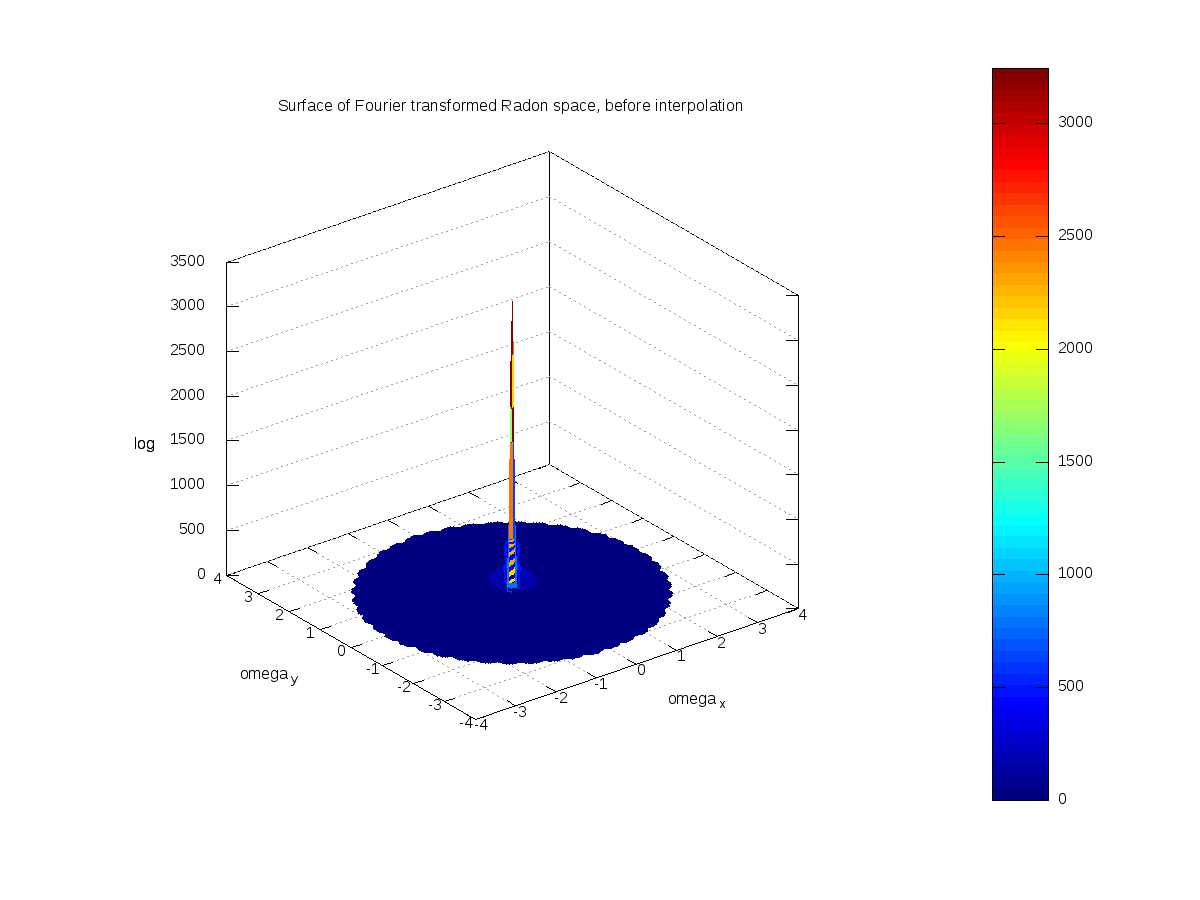
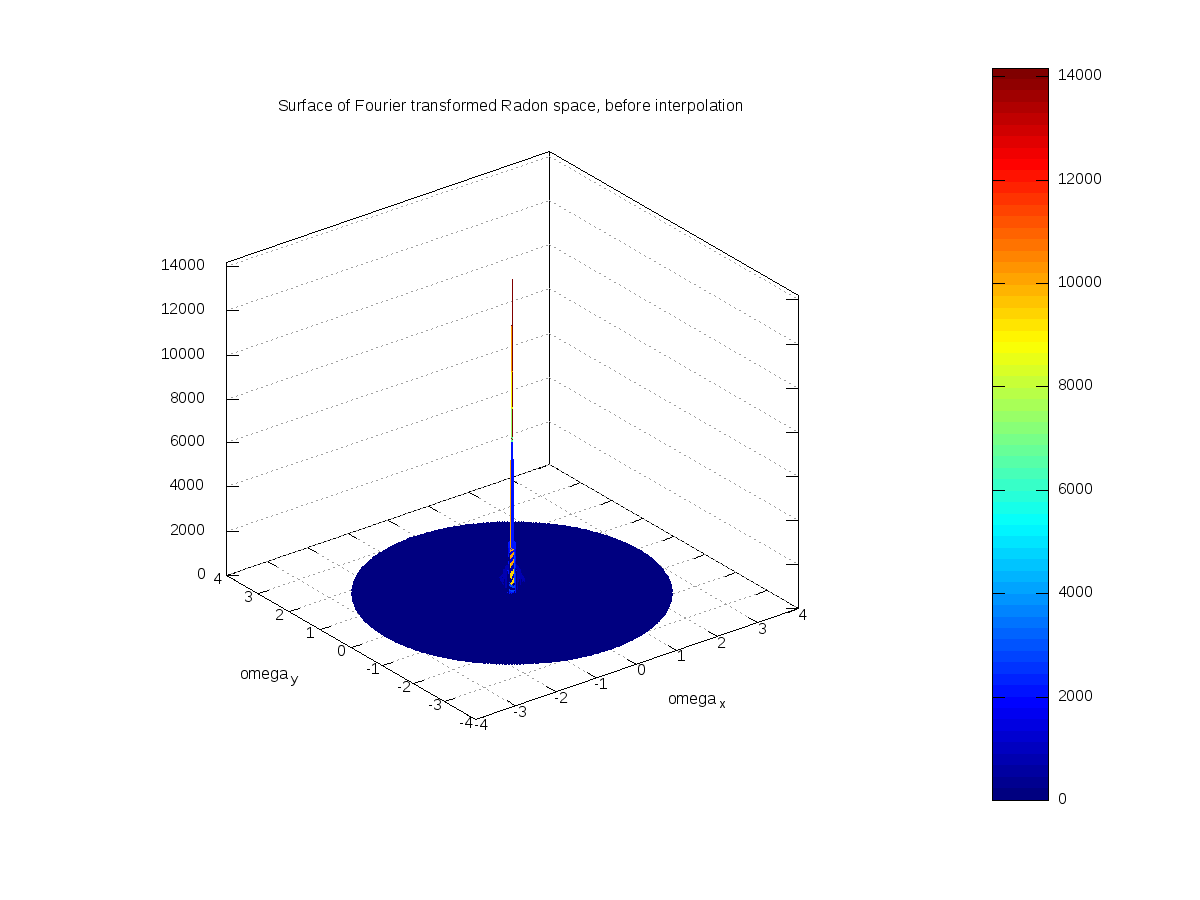
Add oversampling feature to reduce artefacts due to oversampling

diff --git a/main.m b/main.m
@@ -16,8 +16,9 @@
 % @param N_theta Number of slices in Radon scan from 0deg to 180deg (excluding 180deg)
 % @param SNR Signal to Noise Ratio
 % @param interp_m method of interpolation. Can be 'nearest','linear' or 'cubic'
+% @param oversampling_ratio oversampling ratio. Increase the Nyquist frequency to reduce aliasing. =1, none; >1 oversampling.
 % @param DEBUG mode. If set to 1, many more figures are printed out for debugging process.
-function main(shape,N_image,N_theta,SNR,interp_m,DEBUG)
+function main(shape,N_image,N_theta,SNR,interp_m,oversampling_ratio,DEBUG)
 %%%%%%%%%%%%%%%%%%%%%%%%%%%%%%%%%%%%%%%%%%%%%%%%%%%%%%%%%%%%%%%%
 %% MAKE A PHANTOM AND APPLY RADON TRANSFROMATION
 
@@ -52,10 +53,16 @@ save_image(THETA, omega_s, abs(Fourier_Radon),...
 
 %%%%%%%%%%%%%%%%%%%%%%%%%%%%%%%%%%%%%%%%%%%%%%%%%%%%%%%%%%%%%%%%%%%%%
 %% INTERPOLATION: Map slices from polar coordinates to rectangular coordinates
-[Fourier_2D omega_xy] = polar_to_rect(THETA,omega_s,Fourier_Radon,N_image,interp_m,DEBUG);
+[Fourier_2D omega_xy] = polar_to_rect(THETA,omega_s,Fourier_Radon,N_image*oversampling_ratio,interp_m,DEBUG);
 
 %%%%%%%%%%%%%%%%%%%%%%%%%%%%%%%%%%%%%%%%%%%%%%%%%%%%%%%%%%%%%%%%%%%%%
 %% INVERSE 2D FOURIER TRANSFORM
-[Final_image axis_xy] = inverse_Fourier_2D(Fourier_2D,omega_xy,DEBUG);
-save_image(axis_xy,axis_xy,real(Final_image),...
+[Reconstructed_image axis_xy_2] = inverse_Fourier_2D(Fourier_2D,omega_xy,DEBUG);
+
+% Crop image
+xy_min = axis_xy(1);
+xy_max = axis_xy(length(axis_xy));
+[Crop_image new_axis_xy] = image_crop(Reconstructed_image,axis_xy_2,xy_min,xy_max,DEBUG);
+
+save_image(new_axis_xy,new_axis_xy,real(Crop_image),...
 	'Reconstructed Image','x','y');

diff --git a/start_simulation.m b/start_simulation.m
@@ -8,7 +8,7 @@
 
 %! Debug the program.
 % When DEBUG=1, extra figures will be saved in current directory which can be used for debugging process.
-DEBUG = 1;
+DEBUG = 0;
 
 %%%%%%%%%%%%%%%%%%%%%%%%%%%%%%%%%%%%%%%%%%%%%%%%%%%%%%%%%%%%%%%%%
 %% Parameters
@@ -19,15 +19,21 @@ shape='Modified Shepp-Logan'
 %! Size of the phantom.
 % This specifies the number of rows and columns in the matrix of Phantom.
 % N_image is suggested to be an odd number.
-N_image = 231
+N_image = 480
 
 %! Number of slices in Radon scan from 0deg to 180deg (excluding 180deg)
-N_theta = 180
+N_theta = 180*2
 
 %! Signal to noise ratio.
 SNR = 0
 
 %! Interpolation method
-interp_m = 'nearest'
+interp_m = 'linear'
 
-main(shape,N_image,N_theta,SNR,interp_m,DEBUG);
+%! Oversampling_ratio oversampling ratio. Increase the Nyquist frequency to reduce aliasing. =1, none; >1 oversampling.
+oversampling_ratio=2
+
+%! Zeropadding ratio. Avoid overlapping of artefacts to the phantom after applying inverse Fourier transform. 1 ~ mininal; >1 ~ zeropadding.
+%zeropadding_ratio=1;
+
+main(shape,N_image,N_theta,SNR,interp_m,oversampling_ratio,DEBUG);

diff --git a/image_crop.m b/image_crop.m
@@ -1,0 +1,35 @@
+%%
+%! @file
+% Crop the image to specified range.
+%
+
+%%
+%! @param image Image to be cropped
+% @param axis_xy original range of axes in the image
+% @param xy_min top left hand corner of the crop box
+% @param xy_max bottom right hand corner of the crop box
+% @param DEBUG Debug mode. If DEBUG=1, save the preview image.
+% @retval new_image cropped image
+% @retval new_axis_xy new axes range
+function [new_image new_axis_xy] = image_crop(image,axis_xy,xy_min,xy_max,DEBUG)
+
+% Make axis_xy a row vector
+if( size(axis_xy,2) ==1)
+axis_xy = axis_xy';
+end
+
+% define crop box
+[row_idx col_idx val] = find( axis_xy>=xy_min & axis_xy<=xy_max );
+idx_begin = col_idx(1);
+idx_end = col_idx(length(row_idx));
+
+new_image = image(idx_begin:idx_end,idx_begin:idx_end);
+new_axis_xy = axis_xy(idx_begin:idx_end);
+
+if(DEBUG)
+figure
+imagesc(axis_xy,axis_xy,real(image)),colormap(gray),colorbar
+xlim([xy_min xy_max]),ylim([xy_min xy_max])
+title('Cropbox preview'),xlabel('x'),ylabel('y')
+print -dpng 'cropbox_preview.png'
+end

diff --git a/polar_to_rect.m b/polar_to_rect.m
@@ -45,9 +45,9 @@ omega_y=omega_x;
 [OMEGA_X OMEGA_Y] = meshgrid(omega_x, omega_y);
 [THETA_I OMEGA_SI] = cart2pol(OMEGA_X,OMEGA_Y);
 
-% map from [-pi,pi] to [0, 180]
+% map from {theta,omega_s : [-pi,pi],[0,inf]} to {theta,omega_s : [0, 180],[-inf,inf]}
 OMEGA_SI = OMEGA_SI .* sign(THETA_I);
-THETA_I = abs(THETA_I) *180 / pi;
+THETA_I = abs(THETA_I) * (180/pi);
 
 %% Apply interpolation
 % disable extrapolation: everything outside the defined space is set to zero.
